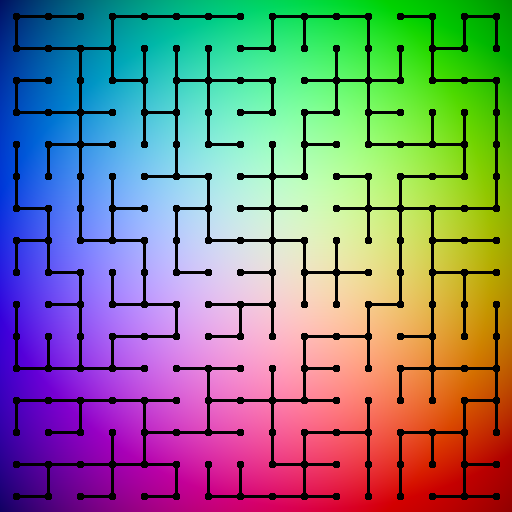
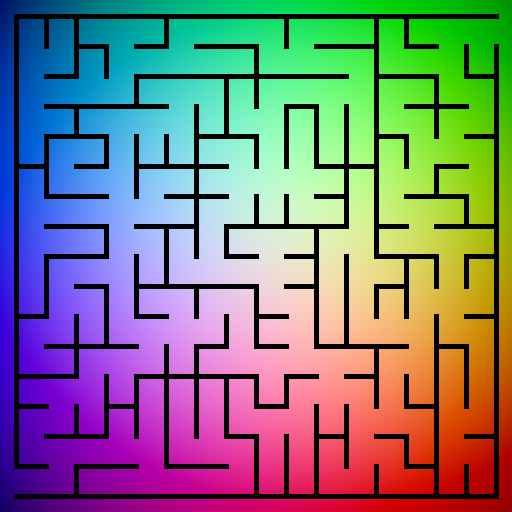
An outlined mazegit status!

Changed region(s): [[0.0, 0.0, 1.0, 1.0]]

diff --git a/shapes.py b/shapes.py
@@ -3,10 +3,16 @@ from PIL import Image, ImageDraw
 from colors import colors
 
 
-class PathNode:
+class Node(ABC):
 
   def __init__(self, coordinates):
     self.coordinates = coordinates
+
+
+class PathNode(Node):
+
+  def __init__(self, coordinates):
+    super().__init__(coordinates)
     self.parent = self
     self.rank = 0
 
@@ -16,22 +22,25 @@ class PathNode:
     return self.parent
 
 
-class WallNode:
-
-  def __init__(self, coordinates):
-    self.coordinates = coordinates
+class WallNode(Node):
+  pass
 
 
-class Edge:
+class Edge(ABC):
 
-  def __init__(
-      self, wall_node_1, wall_node_2, path_node_1=None, path_node_2=None):
-    self.wall_node = [wall_node_1, wall_node_2]
-    self.path_nodes = [path_node_1, path_node_2] \
-      if path_node_1 is not None and path_node_2 is not None \
-      else None
+  def __init__(self, wall_node_1, wall_node_2):
+    self.wall_nodes = [wall_node_1, wall_node_2]
 
-# TODO: convert drawn nodes into wall nodes and edges into Edges
+
+class InnerEdge(Edge):
+
+  def __init__(self, wall_node_1, wall_node_2, path_node_1, path_node_2):
+    super().__init__(wall_node_1, wall_node_2)
+    self.path_nodes = [path_node_1, path_node_2]
+
+
+class OuterEdge(Edge):
+  pass
 
 
 class Shape(ABC):
@@ -65,7 +74,6 @@ class Rectangle(Shape):
     self.wall_nodes = set()
     self.outer_edges = set()
     self.inner_edges = set()
-    self.edges = set()
 
     last_wall_col = []
     last_wall_row = []
@@ -79,8 +87,11 @@ class Rectangle(Shape):
       start_nw_wall_node = WallNode((0,0))
       start_sw_wall_node = WallNode((0,1))
       start_ne_wall_node = WallNode((1,0))
-      self.outer_edges.add(Edge(start_nw_wall_node, start_sw_wall_node))
-      self.outer_edges.add(Edge(start_nw_wall_node, start_ne_wall_node))
+      self.wall_nodes.update([
+          start_nw_wall_node, start_sw_wall_node, start_ne_wall_node])
+      self.outer_edges.update([
+          OuterEdge(start_nw_wall_node, start_sw_wall_node),
+          OuterEdge(start_nw_wall_node, start_ne_wall_node)])
 
     # first column
     prev_path_col = []
@@ -94,10 +105,10 @@ class Rectangle(Shape):
       # left corner
       sw_wall_node = WallNode((0,y+1))
       ne_wall_node = WallNode((1,y))
-      self.outer_edges.add(Edge(prev_wall_node, sw_wall_node))
-      self.inner_edges.add(Edge(
+      self.wall_nodes.update([sw_wall_node, ne_wall_node])
+      self.outer_edges.add(OuterEdge(prev_wall_node, sw_wall_node))
+      self.inner_edges.add(InnerEdge(
           prev_wall_node, ne_wall_node, prev_path_node, new_path_node))
-      self.edges.add(frozenset([new_path_node, prev_path_node]))
       # next
       prev_path_col.append(new_path_node)
       prev_path_node = new_path_node
@@ -118,11 +129,11 @@ class Rectangle(Shape):
       self.path_nodes.add(new_path_node)
       # top corner
       sw_wall_node = WallNode((x,1)) if x>1 else prev_wall_col[0]
-      ne_wall_node = WallNode((x-1,0))
-      self.inner_edges.add(Edge(
+      ne_wall_node = WallNode((x+1,0))
+      self.wall_nodes.update([sw_wall_node, ne_wall_node])
+      self.inner_edges.add(InnerEdge(
           prev_wall_node, sw_wall_node, prev_path_node, new_path_node))
-      self.outer_edges.add(Edge(prev_wall_node, ne_wall_node))
-      self.edges.add(frozenset([new_path_node, prev_path_node]))
+      self.outer_edges.add(OuterEdge(prev_wall_node, ne_wall_node))
       # next
       start_path_row.append(new_path_node)
       prev_path_node = new_path_node
@@ -133,62 +144,91 @@ class Rectangle(Shape):
         last_wall_col.append(ne_wall_node)
 
     # remaining grid
-    prev_path_x = start_path_row[0] if len(start_path_row) > 0 else None
-    prev_wall_nw = start_wall_row[0] if len(start_wall_row) > 0 else None
+    prev_path_x = start_path_row[0] if len(start_path_row)>0 else None
     for x in range(1, self.x_units):
       new_path_col = []
-      prev_path_y = prev_path_col[0] if len(prev_path_col) > 0 else None
+      prev_path_y = prev_path_col[0] if len(prev_path_col)>0 else None
       new_wall_col = []
-      # TODO:
+      prev_wall_sw = start_wall_row[x-1]
       for y in range(1, self.y_units):
         # path node
         new_path_node = PathNode((x,y))
         self.path_nodes.add(new_path_node)
         # wall corner
-        self.edges.add(frozenset([new_path_node, prev_path_x]))
-        self.edges.add(frozenset([new_path_node, prev_path_y]))
+        nw_wall_node = prev_wall_sw
+        sw_wall_node = prev_wall_col[y] \
+            if y<self.y_units-1 else WallNode((x,y+1))
+        ne_wall_node = WallNode((x+1,y)) \
+            if y>1 or x==self.x_units-1 else start_wall_row[x]
+        self.wall_nodes.update([sw_wall_node, ne_wall_node])
+        self.inner_edges.update([
+            InnerEdge(
+                nw_wall_node, sw_wall_node, prev_path_y, new_path_node),
+            InnerEdge(
+                nw_wall_node, ne_wall_node, prev_path_x, new_path_node)])
         # next y
         new_path_col.append(new_path_node)
         if y < self.y_units-1:
           prev_path_y = prev_path_col[y]
         prev_path_x = new_path_node
+        new_wall_col.append(ne_wall_node)
+        prev_wall_sw = sw_wall_node
         # last y
+        if y == self.y_units-1:
+          last_wall_row.append(sw_wall_node)
       # next x
       prev_path_col = new_path_col
       if x < self.x_units-1:
         prev_path_x = start_path_row[x] 
+      prev_wall_col = new_wall_col
       # last x
+      if x == self.x_units-1:
+        last_wall_col.extend(new_wall_col)
+
+    # last wall node
+    last_wall_node = WallNode((self.x_units, self.y_units))
+    self.wall_nodes.add(last_wall_node)
 
     # last border column
+    n_wall_node = last_wall_col[0] if len(last_wall_col)>0 else None
+    for s_wall_node in last_wall_col[1:]:
+      self.outer_edges.add(OuterEdge(n_wall_node, s_wall_node))
+      n_wall_node = s_wall_node
+    if n_wall_node:
+      self.outer_edges.add(OuterEdge(n_wall_node, last_wall_node))
+
     # last border row
-    # last wall node
+    w_wall_node = last_wall_row[0] if len(last_wall_row)>0 else None
+    for e_wall_node in last_wall_row[1:]:
+      self.outer_edges.add(OuterEdge(w_wall_node, e_wall_node))
+      w_wall_node = e_wall_node
+    if w_wall_node:
+      self.outer_edges.add(OuterEdge(w_wall_node, last_wall_node))
 
   def _calc_point(self, node, width, height):
     x, y = node.coordinates
     center_x = width//2
     center_y = height//2
-    unit_length = min(width//self.x_units, height//self.y_units)
-    start_x = center_x - ((self.x_units-1) * unit_length)//2
-    start_y = center_y - ((self.y_units-1) * unit_length)//2
+    unit_length = min(width//(self.x_units+1), height//(self.y_units+1))
+    start_x = center_x - ((self.x_units) * unit_length)//2
+    start_y = center_y - ((self.y_units) * unit_length)//2
     return (start_x + x*unit_length, start_y + y*unit_length)
 
   def draw_nodes(self, img):
     width, height = img.size
-    point_radius = 3
+    half_length = 2
     draw = ImageDraw.Draw(img)
-    for node in self.path_nodes:
+    for node in self.wall_nodes:
       x, y = self._calc_point(node, width, height)
-      draw.ellipse(
-        (x-point_radius, y-point_radius, x+point_radius, y+point_radius),
+      draw.rectangle(
+        (x-half_length, y-half_length, x+half_length, y+half_length),
         fill=colors['black']
       )
 
   def draw_edges(self, img, edges):
     width, height = img.size
-    line_width = 3
+    line_width = 5
     draw = ImageDraw.Draw(img)
     for edge in edges:
-      points = []
-      for node in edge:
-        points.append(self._calc_point(node, width, height))
+      points = [self._calc_point(node, width, height) for node in edge.wall_nodes]
       draw.line(points, fill=colors['black'], width=line_width)

diff --git a/maze.py b/maze.py
@@ -10,9 +10,10 @@ class Maze():
     self.image = Image.new('RGB', (width, height), colors['white'])
     self.shape = None
     self.background = None
-    self.edge_list = None
+    self.outer_edges = None
+    self.inner_edges = None
+    self.border_walls = None
     self.maze_walls = None
-    self.node_parents = {}
 
   def set_shape(self, shape, *args):
     try:
@@ -20,7 +21,8 @@ class Maze():
     except AttributeError:
       error_msg = '{} is not a valid Shape.'.format(shape)
       raise ValueError(error_msg)
-    self.edge_list = list(self.shape.edges)
+    self.inner_edges = list(self.shape.inner_edges)
+    self.outer_edges = list(self.shape.outer_edges)
 
   def set_background(self, background):
     backgrounds.validate_background(background)
@@ -35,43 +37,50 @@ class Maze():
   def _draw_nodes(self):
     self.shape.draw_nodes(self.image)
 
-  def randomize_maze_edges(self):
+  def randomize_border_walls(self):
+    random.shuffle(self.outer_edges)
+    self.border_walls = self.outer_edges[2:]
+
+  def randomize_maze_walls(self):
     if self.shape is None:
       error_msg = 'Shape has not been set. Call set_shape() to set shape.'
       raise AttributeError(error_msg)
 
-    def _is_maze_edge(edge):
-      nodes = [node for node in edge]
-      node0_parent = nodes[0].find_parent()
-      node1_parent = nodes[1].find_parent()
-      if node0_parent == node1_parent:
-        return False
+    def _is_maze_wall(edge):
+      node1, node2 = edge.path_nodes
+      node1_parent = node1.find_parent()
+      node2_parent = node2.find_parent()
+      if node1_parent == node2_parent:
+        return True
       else:
         # join sets
-        if nodes[0].rank < nodes[1].rank:
-          node0_parent.parent = node1_parent
-        elif nodes[0].rank > nodes[1].rank:
-          node1_parent.parent = node0_parent
+        if node1.rank < node2.rank:
+          node1_parent.parent = node2_parent
+        elif node1.rank > node2.rank:
+          node2_parent.parent = node1_parent
         else:
-          node0_parent.parent = node1_parent
-          node1_parent.rank += 1
-        return True
+          node1_parent.parent = node2_parent
+          node2_parent.rank += 1
+        return False
 
     # reset maze
     for node in self.shape.path_nodes:
       node.parent = node
-    random.shuffle(self.edge_list)
+    random.shuffle(self.inner_edges)
     self.maze_walls = []
 
-    for edge in self.edge_list:
-      if _is_maze_edge(edge):
+    for edge in self.inner_edges:
+      if _is_maze_wall(edge):
         self.maze_walls.append(edge)
 
   def _draw_maze_walls(self):
     if self.maze_walls is None:
-      error_msg = 'Maze edges have not been set. Call randomize_maze_edges() to set maze edges.'
+      error_msg = 'Maze walls have not been set. Call randomize_maze_walls() to set maze walls.'
       raise AttributeError(error_msg)
-    self.shape.draw_edges(self.image, self.maze_walls)
+    if self.border_walls is None:
+      error_msg = 'Border walls have not been set. Call randomize_border_walls() to set border walls.'
+      raise AttributeError(error_msg)
+    self.shape.draw_edges(self.image, self.border_walls + self.maze_walls)
 
   def draw_maze(self):
     self._draw_background()
@@ -79,8 +88,14 @@ class Maze():
     self._draw_maze_walls()
 
   def draw_random_maze(self):
-    self.randomize_maze_edges()
+    self.randomize_border_walls()
+    self.randomize_maze_walls()
     self.draw_maze()
+
+  def draw_graph(self):
+    self._draw_background()
+    self._draw_nodes()
+    self.shape.draw_edges(self.image, self.inner_edges)
 
   def save_maze_as_png(self, file_name):
     self.image.save(file_name + ".png", "PNG")

diff --git a/main.py b/main.py
@@ -1,7 +1,8 @@
 from maze import Maze
 
-length = 512
-maze = Maze(length, length)
+width = 512
+height = 512
+maze = Maze(width, height)
 maze.set_shape('Rectangle', 16, 16)
 maze.set_background('rgb_gradient')
 maze.draw_random_maze()
